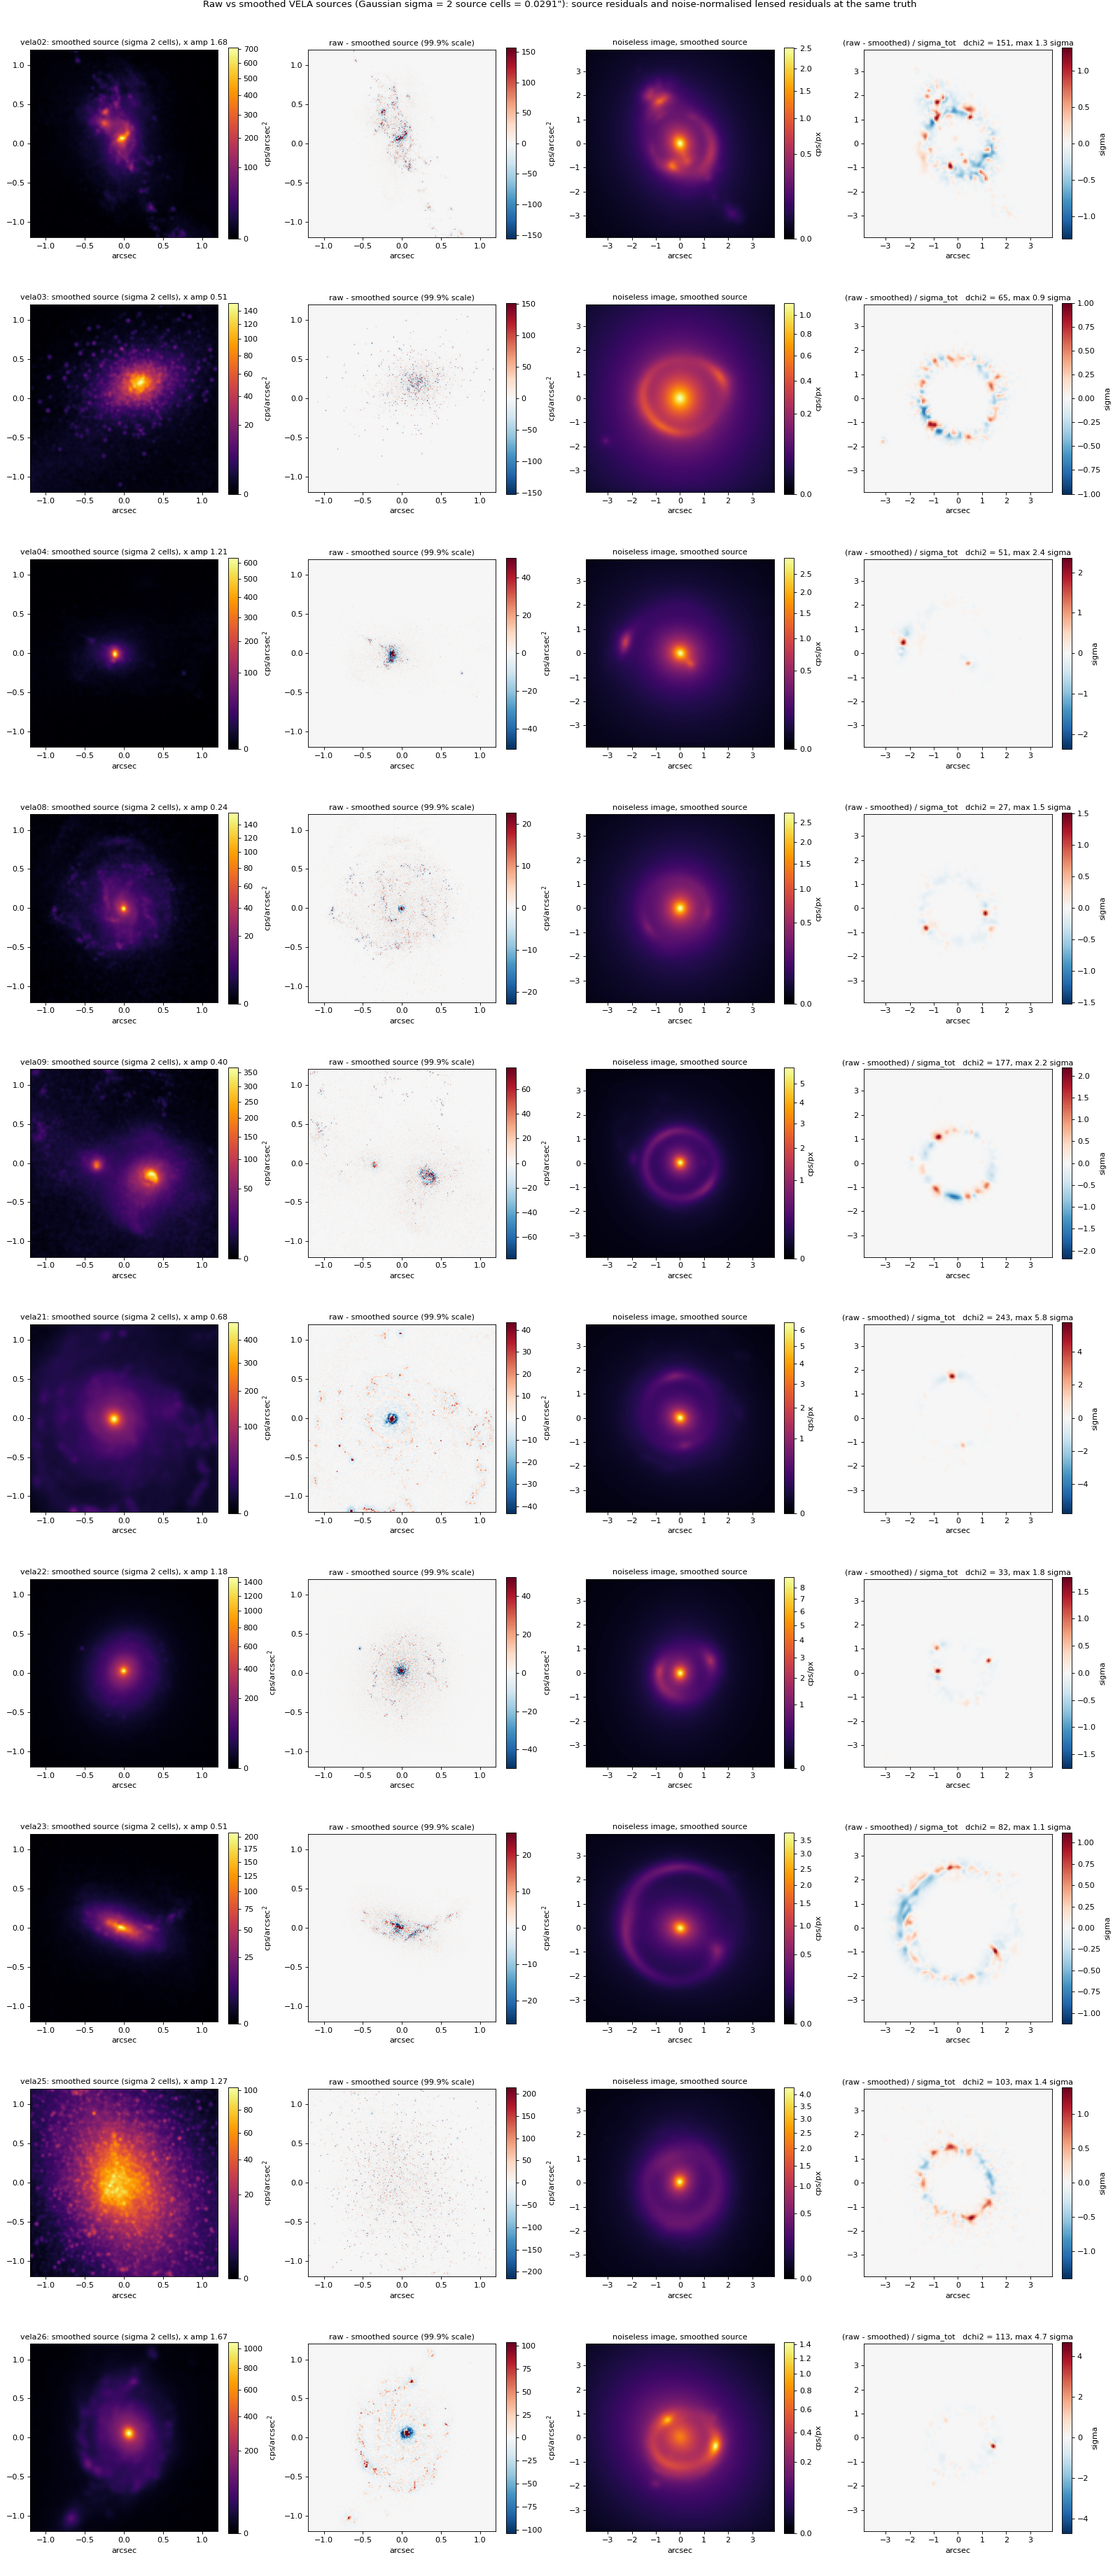
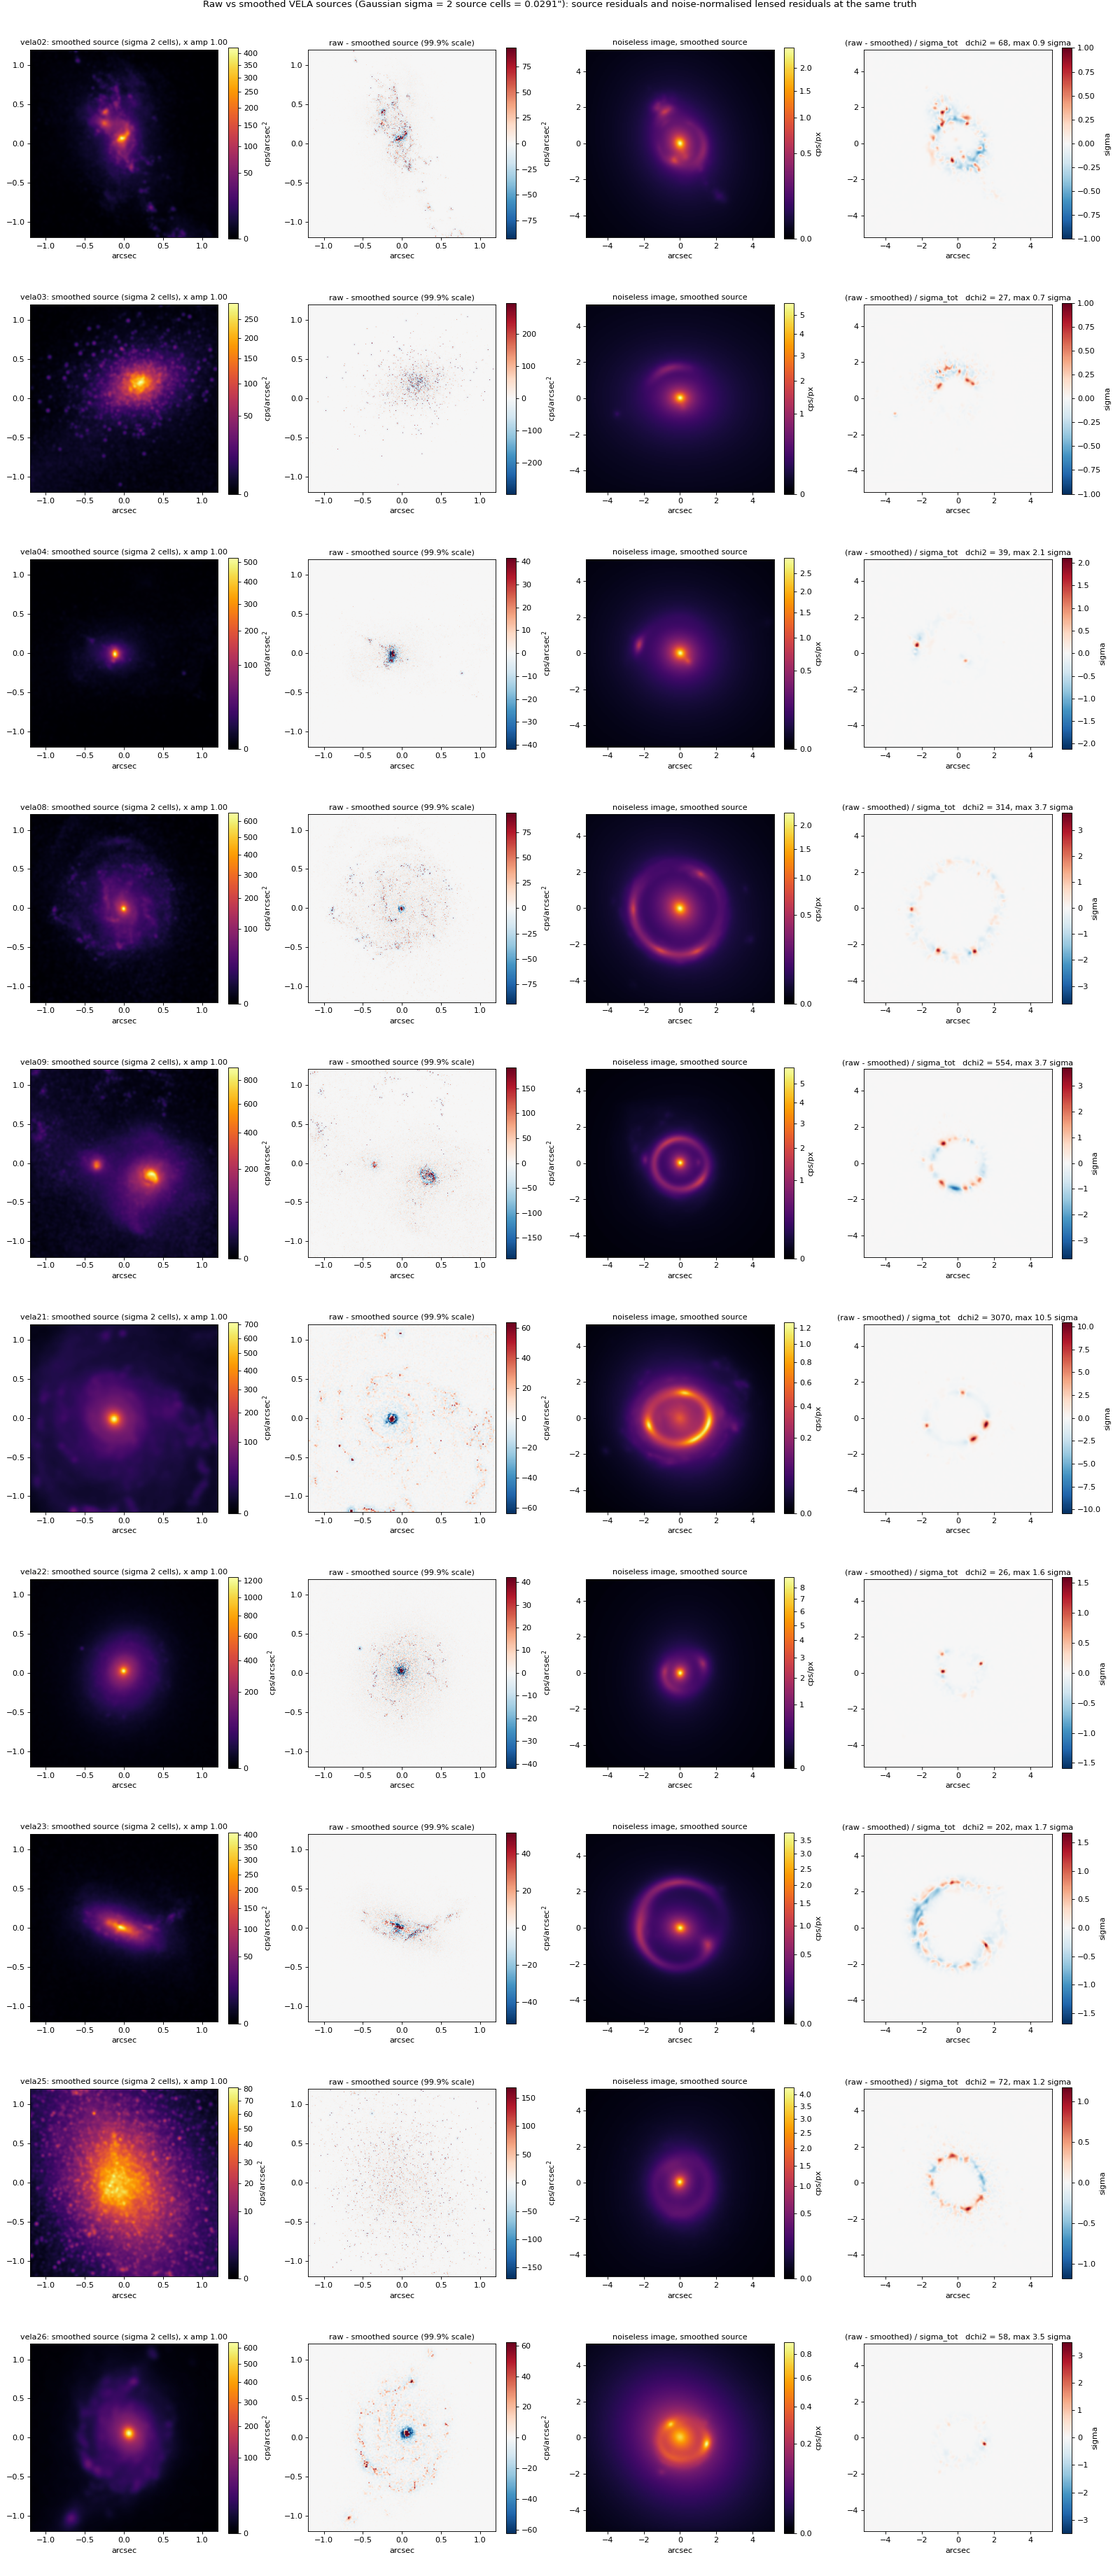
vela v3: native VELA photometry, 160 px frame, 2-sigma border; set regenerated
calibration: {source_flux_scale: 1.0} (user decision 2026-09-17): the Foundry
peak-SB anchor returned amplitudes 0.24-1.68, so the simulation's own F140W
photometry already puts the arcs in the Foundry band. campaign_unlensed_mag
marked superseded. Regenerated: 10 systems, 1 redraw, border <= 0.52 sigma,
outside <= 0.06%. Grid/gallery/smoothing residuals rebuilt (vela21 nucleus
raw-vs-smoothed now 10.5 sigma; logged). README row + plot caption updated.

Claude-Session: https://claude.ai/code/session_01U1utULpjcbXb5xS4R2vAms

diff --git a/experiments/vela_plot_dataset.py b/experiments/vela_plot_dataset.py
@@ -119,6 +119,8 @@ def suptitle(man):
     elif mode == "unlensed_ab_mag":
         d = cal["unlensed_ab_mag"]
         cal_txt = f"calib unlensed AB {d.get('value', d.get('loc', d.get('median')))} ({d['dist']})"
+    elif mode == "scale":
+        cal_txt = f"native photometry x {cal.get('source_flux_scale')}"
     else:
         cal_txt = f"calib {mode}"
     return (f"{man.get('generator')} v{ex.get('generator_version')} | {ex.get('filter', '?').upper()} "

diff --git a/docs/logs/vela-simulated-systems.md b/docs/logs/vela-simulated-systems.md
@@ -1089,3 +1089,65 @@ Options given to the user (no decision yet):
 4. matched lensed flux / arc S/N: same trade as 3, luminosity ~ 1/mu;
 5. brightness as a second factor at the same lens draw (x2 systems): the only
    design that tests S/N dependence at fixed morphology.
+
+## Regenerated: 160 px, 2-sigma border, native VELA photometry (2026-09-17, user decisions) — UNCERTIFIED
+
+User: "I'm good just keeping the native Vela photometry. Can you regenerate
+everything with these new modifications?" Config: `num_pix: 160`,
+`cutoff.max_border_sb_sigma: 2.0` (canvas 320 px = 20.8"), `calibration:
+{source_flux_scale: 1.0}`; `campaign_unlensed_mag.yaml` marked SUPERSEDED (not
+regenerated). Same seed 0; a draw that the old rule rejected is now accepted
+at attempt 0, so the lenses of vela03/vela08/vela21 differ from the previous
+set (vela08: theta_E 2.47" giant ring). 1 redraw in total (vela21). Grid and
+gallery regenerated and inspected first (no arc near the frame edge; vela21 and
+vela09 now outshine their lens). 23 tests pass.
+
+| system | θ_E | amp | src/lens | μ | outside | border | redraws | src AB unl | arcs AB | lens AB | peak SB (7 px) |
+|---|---|---|---|---|---|---|---|---|---|---|---|
+| vela02 | 1.39 | 1 | 0.309 | 10.1 | 0.00% | 0.00σ | 0 | 22.94 | 20.43 | 19.15 | 21.06 |
+| vela03 | 1.21 | 1 | 0.084 | 4.1 | 0.00% | 0.00σ | 0 | 22.43 | 20.89 | 18.20 | 21.02 |
+| vela04 | 1.65 | 1 | 0.081 | 10.2 | 0.04% | 0.52σ | 0 | 24.18 | 21.66 | 18.93 | 21.09 |
+| vela08 | 2.47 | 1 | 0.487 | 12.8 | 0.00% | 0.00σ | 0 | 22.49 | 19.73 | 18.95 | 20.91 |
+| vela09 | 1.42 | 1 | 1.070 | 6.8 | 0.00% | 0.00σ | 0 | 21.18 | 19.09 | 19.17 | 20.04 |
+| vela21 | 1.54 | 1 | 1.431 | 6.6 | 0.06% | 0.13σ | 1 | 21.21 | 19.17 | 19.56 | 20.35 |
+| vela22 | 1.05 | 1 | 0.294 | 6.2 | 0.00% | 0.00σ | 0 | 21.88 | 19.90 | 18.57 | 20.14 |
+| vela23 | 2.22 | 1 | 0.706 | 29.4 | 0.01% | 0.10σ | 0 | 23.05 | 19.38 | 19.00 | 20.73 |
+| vela25 | 1.45 | 1 | 0.407 | 5.4 | 0.00% | 0.00σ | 0 | 21.87 | 20.04 | 19.06 | 22.08 |
+| vela26 | 1.18 | 1 | 0.178 | 3.4 | 0.02% | 0.03σ | 0 | 22.16 | 20.84 | 18.96 | 20.93 |
+
+Peak SB is now recorded over the generator's 7-px default for non-peak-SB
+modes (was the 9-px target); 0.05 mag difference, not changed.
+
+### Raw vs smoothed at the new truths (`smoothing_residuals.{png,json}`, re-run)
+
+| system | Δχ² (σ_tot) | max |res| | px > 1σ | px > 3σ |
+|---|---|---|---|---|
+| vela02 | 68 | 0.95σ | 0 | 0 |
+| vela03 | 27 | 0.71σ | 0 | 0 |
+| vela04 | 39 | 2.1σ | 9 | 0 |
+| vela08 | 314 | 3.7σ | 44 | 4 |
+| vela09 | 554 | 3.7σ | 124 | 4 |
+| vela21 | 3070 | 10.5σ | 205 | 72 |
+| vela22 | 26 | 1.6σ | 6 | 0 |
+| vela23 | 202 | 1.7σ | 9 | 0 |
+| vela25 | 72 | 1.2σ | 2 | 0 |
+| vela26 | 58 | 3.5σ | 8 | 1 |
+
+vela21 [M]: the raw-vs-smoothed difference at its nucleus is now 10.5σ over 72
+pixels above 3σ (was 5.8σ / 7 px): the source is 1.5x brighter than under the
+peak-SB draw and its new lens (theta_E 1.54", mu 6.6 vs 3.4) magnifies the
+nucleus more. This is the compact-nucleus caveat of the smoothing decision,
+now at a level the data would see: whether VELA's central cusp is physical or
+a Sunrise sampling artefact is not decidable from the mocks, and the recorded
+truth is the smoothed source. Flagged to the user; a modelling method that
+fits the smoothed truth cannot be judged on the raw one at vela21's centre.
+
+Page (artifact version 7): pills "native VELA photometry", "2 tabled questions"
+(brightness-structure correlation and cut-off thresholds resolved); steps,
+instrument / calibration / cut-off rows, stats, table, choices, files updated.
+README row updated. Memory updated.
+
+| claim | status | evidence |
+|---|---|---|
+| regenerated set: 1 redraw / 10 systems, outside <= 0.06%, border <= 0.52σ (2σ rule), amp = 1, peak SB 20.0–22.1 | MEASURED | generation log, manifest |
+| raw-vs-smoothed Δχ² 26–3070, max 10.5σ at vela21's nucleus | MEASURED | `smoothing_residuals.json` |

diff --git a/src/gigalens_research/simtests/README.md b/src/gigalens_research/simtests/README.md
@@ -78,7 +78,7 @@ python -m gigalens_research.simtests status campaign.yaml
 | `hundred_sersic_v1` | `experiments/hundred_systems_GL2/campaign.yaml` | Convergence test: 100 EPL+Shear+Sérsic systems, MAP→SVI→HMC |
 | `shapelets_systematics_v1` | `experiments/shapelets_systematics/campaign.yaml` | Systematics: Vela sources, shapelet inference, sweep over `n_max` |
 | `vela_revised_v2` | `experiments/vela_revised_v2/campaign.yaml` | Fresh Vela systems simulated by the `vela_simulated` generator (scene API): YAML-tunable truth prior, STScI ePSF, instrument-derived noise, source-to-lens flux calibration, cut-off rejection |
-| `vela_f140w_v3` | `experiments/vela_f140w_v3/campaign.yaml` | Same generator at the DESI Strong Lens Foundry V setup (group decisions 2026-09-14): WFC3/IR F140W, 0.065"/px, 120 px, STDPSF WFC3IR, 1197.7 s, θ_E LogNormal(1.5, 0.25), source calibrated to the Foundry peak surface brightness (`peak_sb`); `campaign_unlensed_mag.yaml` = the magnification route No source crop (2026-09-15): VELA morphology as delivered; vela10 and vela07 dropped (vela07: extended source that only passes the border rule at a faint draw); outside-flux limit 10% (border rule 1σ guards the arcs). Sources smoothed by 2 Sunrise cells (`source_smooth_sigma_pix: 2.0`, removes the raw maps' Monte-Carlo speckle). Noise: white at the DESI-238 cutout's measured 0.0076 cps/px (drizzle correlation noted as an extension); truth rendered at supersample 32, `inference_supersample: 4` for the fitter. |
+| `vela_f140w_v3` | `experiments/vela_f140w_v3/campaign.yaml` | Same generator at the DESI Strong Lens Foundry V setup (group decisions 2026-09-14): WFC3/IR F140W, 0.065"/px, 160 px (2026-09-17; 120 px selected against large θ_E for extended sources), STDPSF WFC3IR, 1197.7 s, θ_E LogNormal(1.5, 0.25), source brightness = VELA's native F140W photometry (`source_flux_scale: 1.0`, 2026-09-17; the Foundry peak-SB anchor returned amplitudes 0.24–1.68, so the native fluxes already sit in the Foundry band; `campaign_unlensed_mag.yaml` is superseded). No source crop (2026-09-15): VELA morphology as delivered; vela10 and vela07 dropped; outside-flux limit 10%, border rule 2σ in the outer 3 px at 160 px (guards the arcs without selecting on θ_E: `frame_size_scan.py`). Sources smoothed by 2 Sunrise cells (`source_smooth_sigma_pix: 2.0`, removes the raw maps' Monte-Carlo speckle). Noise: white at the DESI-238 cutout's measured 0.0076 cps/px (drizzle correlation noted as an extension); truth rendered at supersample 32, `inference_supersample: 4` for the fitter. |
 
 ## Extending the framework
 
